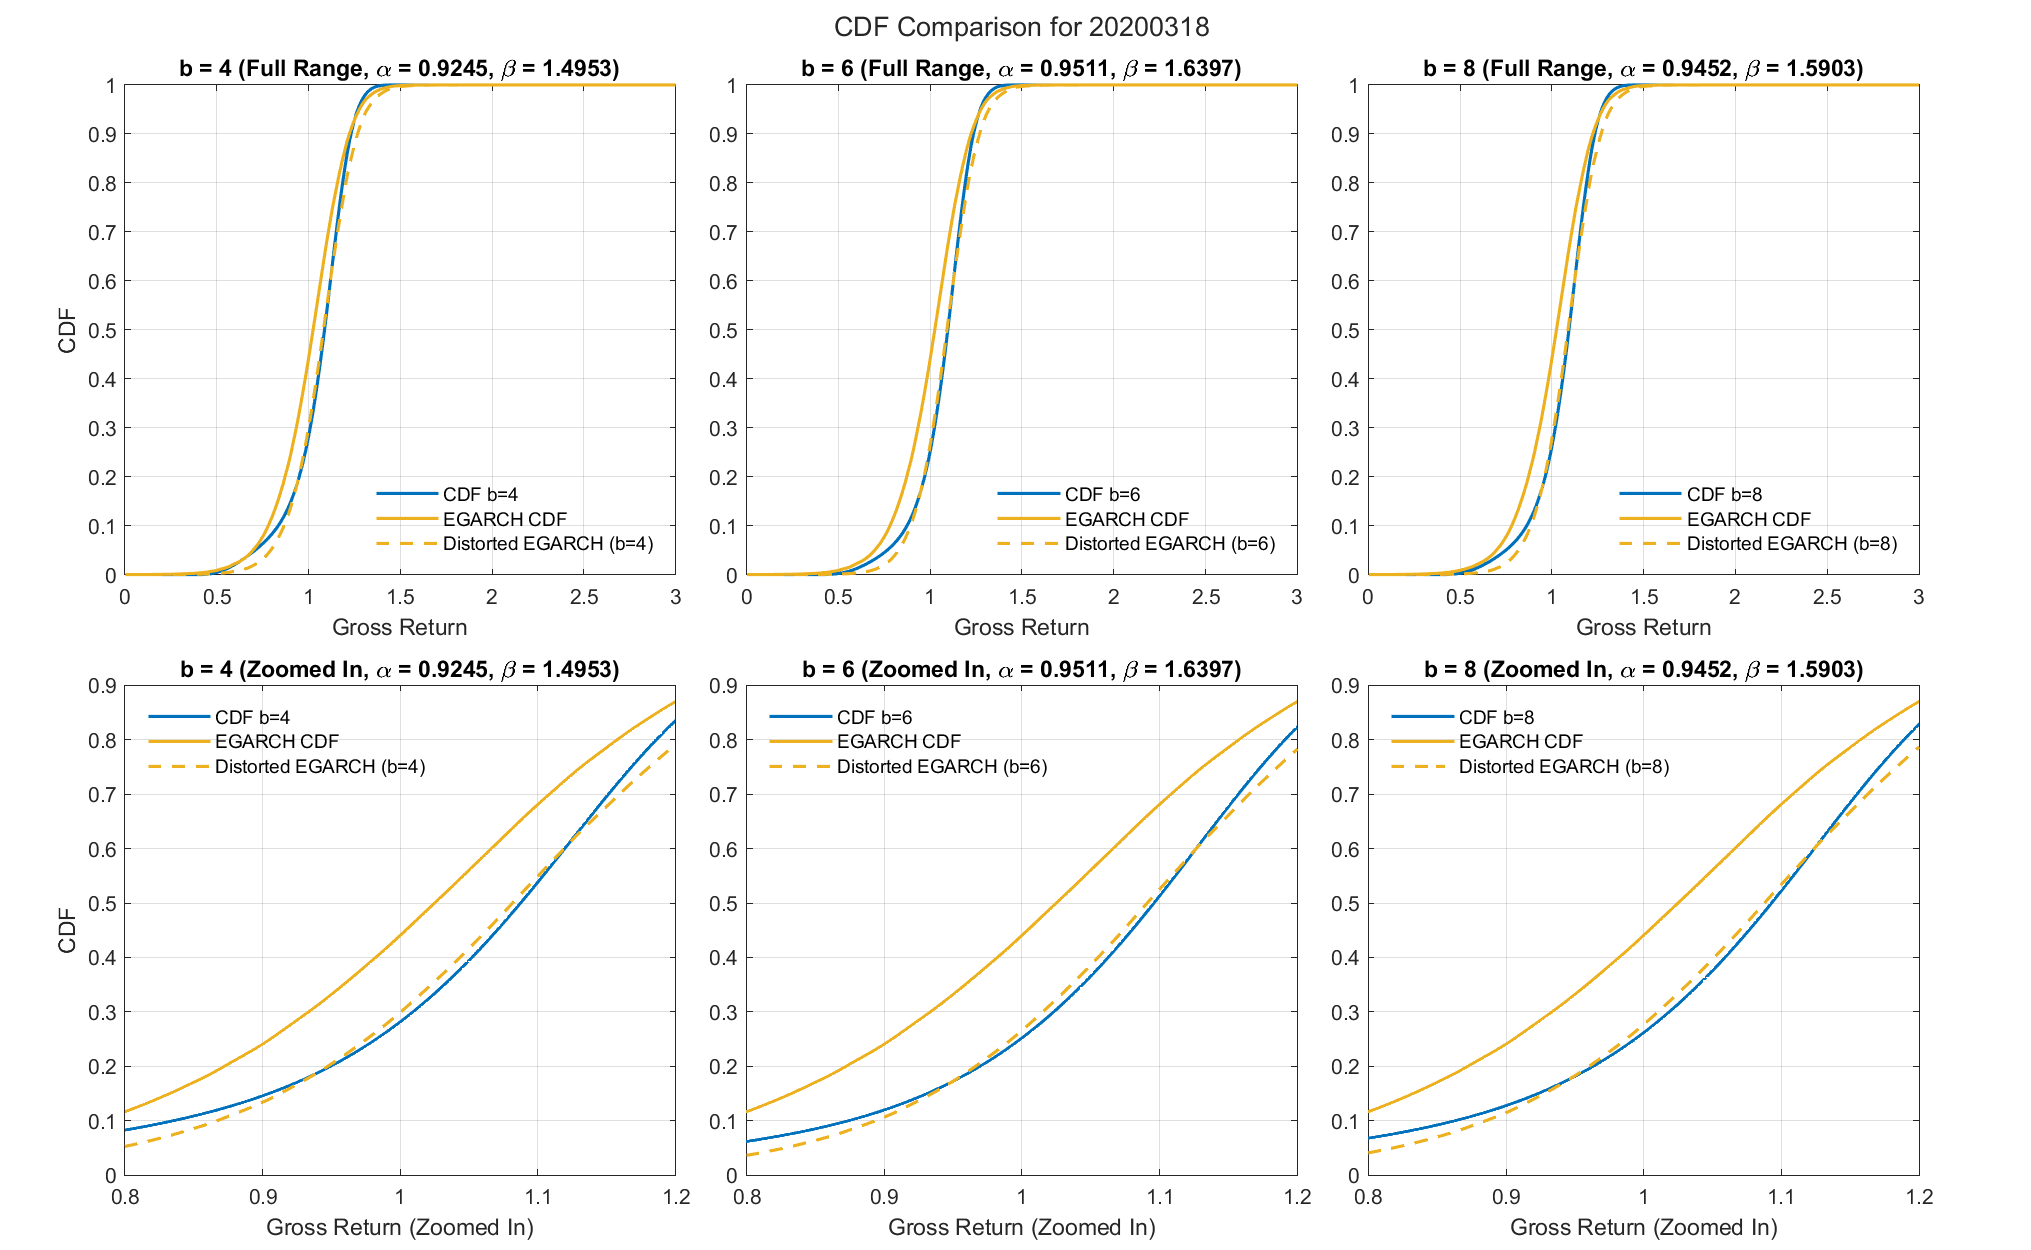
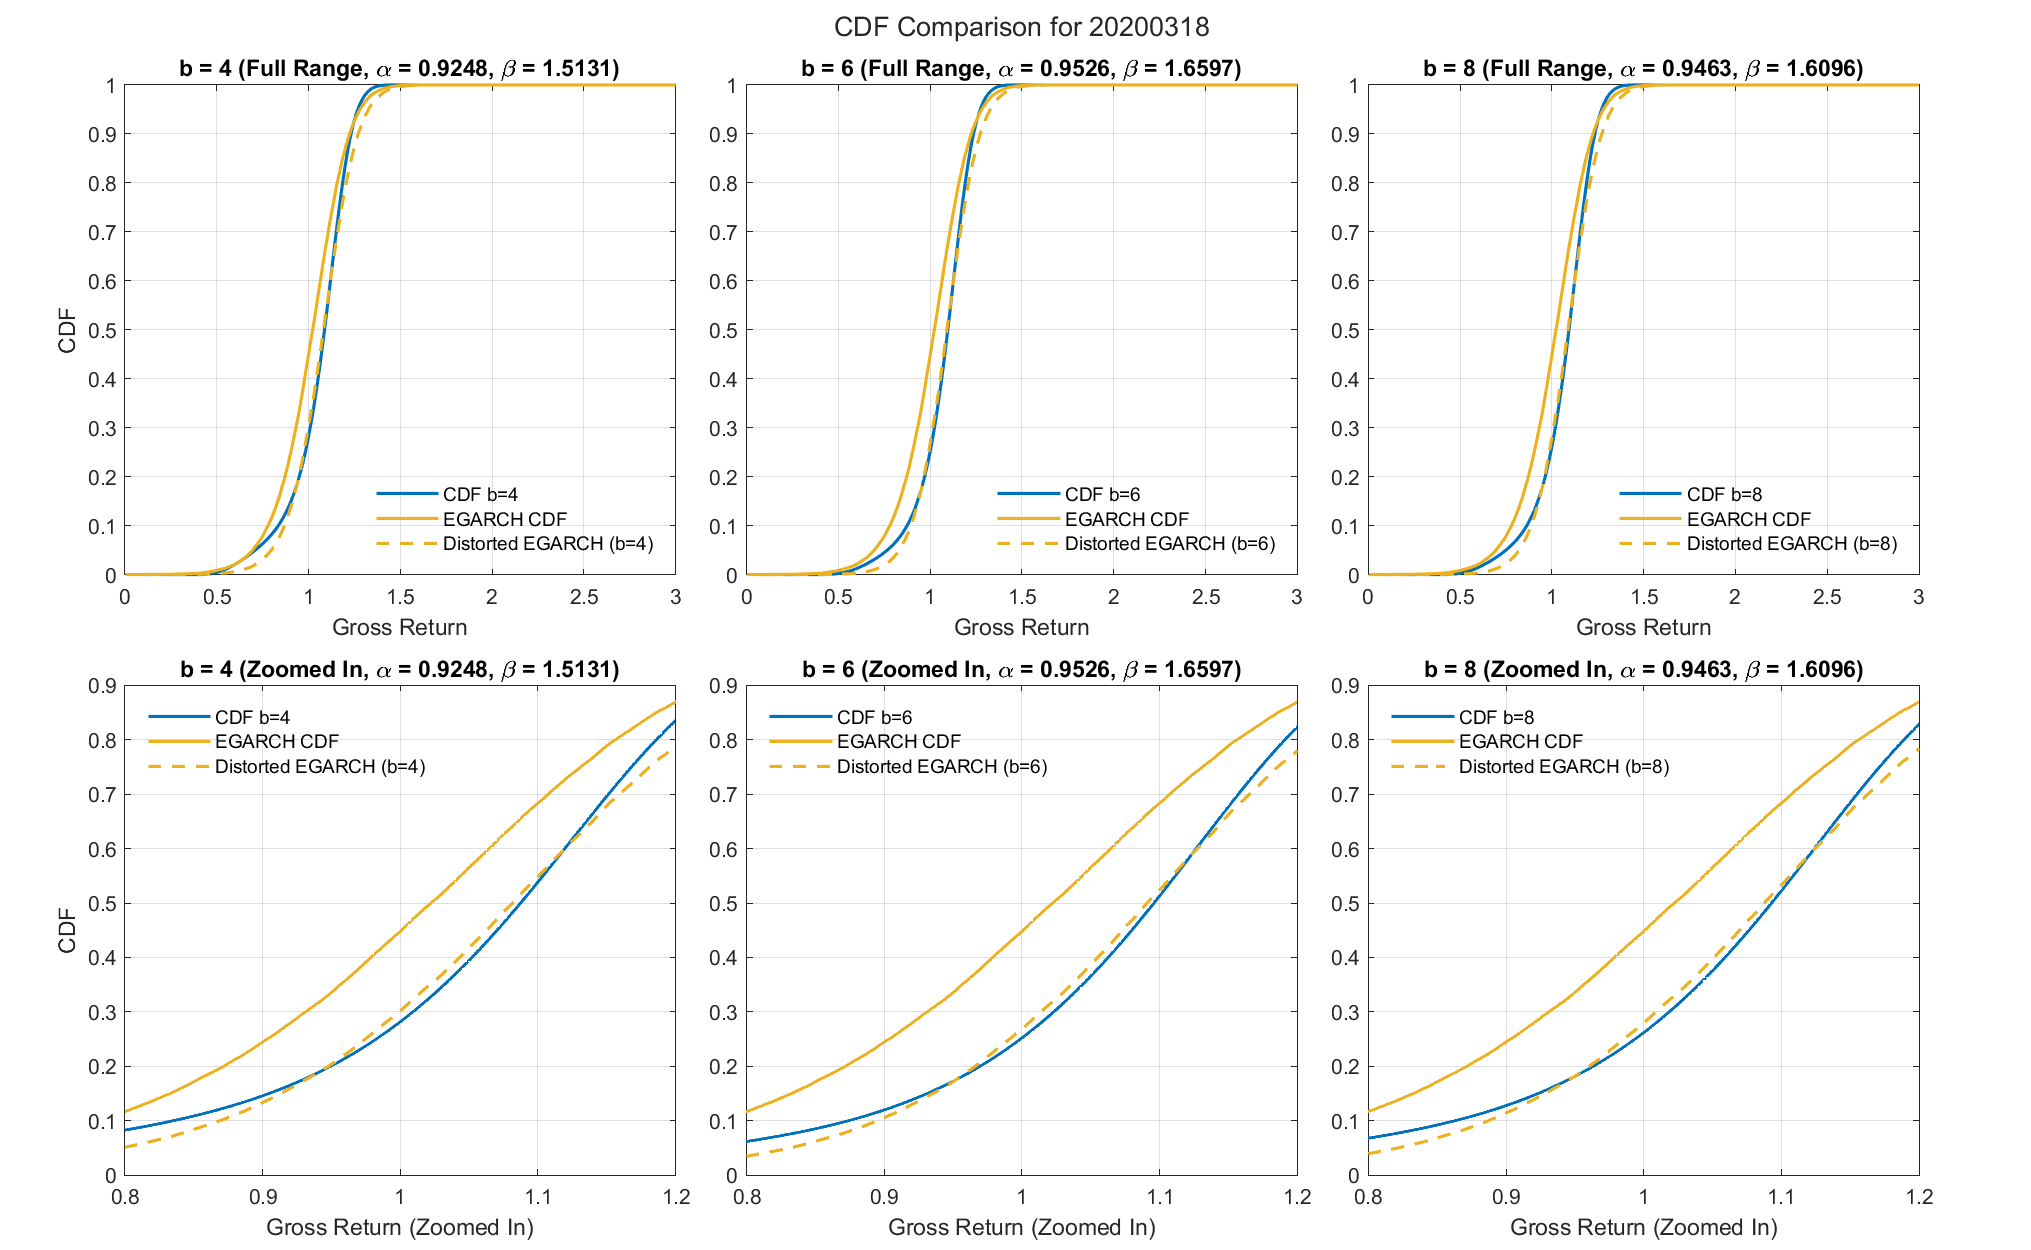
Updated EGARCH simulation (Reduced `Bandwidth` in `ksdensity` from 0.01 to 0.001) and parameter estimation for monthly optimization

diff --git a/08  變形函數（Distortion Function）/Procedure__Estimate_Distortion_Function_Parameters_Monthly.m b/08  變形函數（Distortion Function）/Procedure__Estimate_Distortion_Function_Parameters_Monthly.m
@@ -297,7 +297,7 @@ clear max_alpha_date  max_beta_date   min_alpha_date  min_beta_date
 %% Plot: CDF comparison
 
 % Setting
-t = 135;
+t = 265;
 
 CDF_b_4 = b_4_AllR_CDF(t, :);
 CDF_b_6 = b_6_AllR_CDF(t, :);
